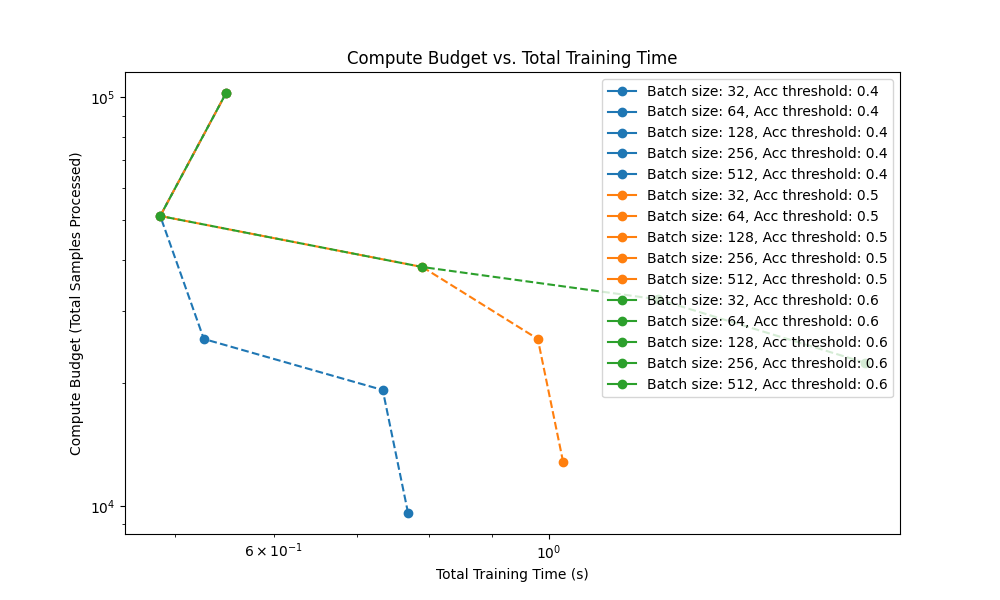
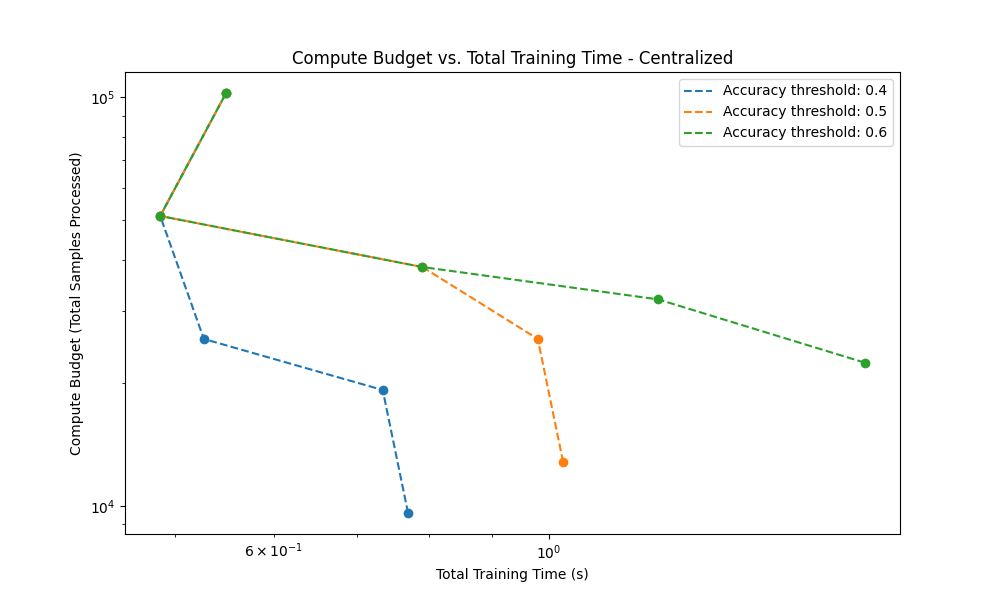
plots

Changed region(s): [[0.279, 0.09, 0.899, 0.66]]

diff --git a/src/plot_scaling_laws.py b/src/plot_scaling_laws.py
@@ -50,10 +50,11 @@ def create_compute_budget_plot(total_results, save_dir, save_file, analysis_name
     for accuracy_threshold in accuracy_thresholds:
         x_vals = []
         y_vals = []
+
         for batch_size, params, hist in total_results:
             times = []
             samples = []
-            
+    
             num_rounds = len(hist.metrics_centralized['accuracy']) - 1
             for round_idx, centralized_accuracy in hist.metrics_centralized['accuracy']:
                 if centralized_accuracy >= accuracy_threshold:
@@ -67,10 +68,15 @@ def create_compute_budget_plot(total_results, save_dir, save_file, analysis_name
                     round_times = [t for _, t in round_metrics['all']]
                     times.append(np.mean(round_times))
                 cumulative_time = np.sum(times)
+
             elif mode == "2":
                 assert universal_round_time is not None, "Universal round time must be provided for mode 2"
                 cumulative_time = universal_round_time * num_rounds
 
+            elif mode == "3":
+                assert isinstance(universal_round_time, dict), "Universal round time should be a dict for mode 3"
+                cumulative_time = num_rounds * universal_round_time[batch_size]
+                
                 
             for round_idx, round_metrics in hist.metrics_distributed_fit['samples_processed']:
                 if round_idx > num_rounds:
@@ -121,9 +127,6 @@ def create_compute_budget_plot_centralized(centralized_experiment_results, save_
             y_vals.append(compute_budget)
             ax.plot(cumulative_time, compute_budget, marker='o', color=color)
             
-            print(f"Batch size: {batch_size}, Acc threshold: {accuracy_threshold}")
-            print(f"Total Training Time (s): {cumulative_time}")
-            print(f"Compute Budget (samples): {compute_budget}")
         
         ax.plot(x_vals, y_vals, linestyle='--', color=color, label=f"Accuracy threshold: {accuracy_threshold}")
 
@@ -164,7 +167,7 @@ def main():
     save_dir = os.path.join(project_root, "plots", "centralized")
     os.makedirs(save_dir, exist_ok=True)
 
-    centralized_experiment_batch_sizes = [16, 32, 64, 128, 256, 512, 1024]
+    centralized_experiment_batch_sizes = [32, 64, 128, 256, 512]
     centralized_experiment_results = [
         (batch_size, load_experiment(os.path.join(project_root, "results", "centralized", f"centralized_experiment_results_{batch_size}.json")))
         for batch_size in centralized_experiment_batch_sizes
@@ -202,14 +205,27 @@ def main():
     os.makedirs(save_dir, exist_ok=True)
 
     experiment_batch_sizes = [16, 32, 64, 128, 256]
-    time_per_round = 0.00427
 
+    times_per_round = {
+        16: 0.3243857210002261,
+        32: 0.3399281270000074,
+        64: 0.3267664940001396,
+        128: 0.33573683999969717,
+        256: 0.3428499029998875
+        }
+
+    times_per_round = {16: 0.004624289949995841,
+        32: 0.003913936962501907,
+        64: 0.00422577374286074,
+        128: 0.004699526712501978,
+        256: 0.004757751000002892}
     ################################# NON-IID #################################
     
     total_batch_results = []
     for batch_size in experiment_batch_sizes:
         save_file_name = os.path.join(project_root, "results", f"federated_batch_results_{batch_size}.pkl")
         total_batch_results.append(load_experiment_pickle(save_file_name))
+
 
     create_compute_budget_plot(
         total_results=total_batch_results,
@@ -218,8 +234,8 @@ def main():
         analysis_name="Local Batch Size",
         accuracy_thresholds=accuracy_thresholds,
         accuracy_colors=accuracy_colors,
-        mode="2",
-        universal_round_time=time_per_round,
+        mode="1",
+        universal_round_time=times_per_round,
     )
 
 
@@ -229,6 +245,7 @@ def main():
     for batch_size in experiment_batch_sizes:
         save_file_name = os.path.join(project_root, "results", f"IID_federated_local_batch_results_{batch_size}.pkl")
         total_batch_results.append(load_experiment_pickle(save_file_name))
+    
 
     create_compute_budget_plot(
         total_results=total_batch_results,
@@ -237,14 +254,16 @@ def main():
         analysis_name="Local Batch Size",
         accuracy_thresholds=accuracy_thresholds,
         accuracy_colors=accuracy_colors,
-        mode="2",
-        universal_round_time=time_per_round,
+        mode="1",
+        universal_round_time=times_per_round,
     )
 
 
 
     ###################################################### COHORT SIZE #####################################################
 
+
+    time_per_round = 0.00427
     cohort_sizes =  [5, 10, 20, 50, 75, 100]
 
     ################################# NON-IID #################################
@@ -281,7 +300,6 @@ def main():
         mode="2",
         universal_round_time=time_per_round,
     )
-
 
 
     ###################################################### GLOBAL BATCH SIZE #####################################################
